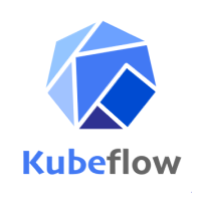
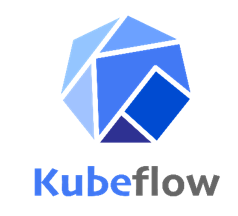
image

Changed region(s): [[0.21, 0.06, 0.81, 0.69], [0.09, 0.72, 0.93, 0.93]]

diff --git a/README.md b/README.md
@@ -6,7 +6,7 @@
 
 # Kubeflow Pipeline Tasks
 
-|![image info|200x200](./images/kubeflow.png)  +   ![image info|200x200](./images/azuredevops.png) |
+![image info|200x200](./images/kfp+azuredevops.png)
 
  Kubeflow pipeline tasks to upload pipeline, create an experiment and invoke pipeline runs both in synchronous and asynchronous way. These task can be used to achive MLOps with Kubeflow and Azure DevOps.
 
